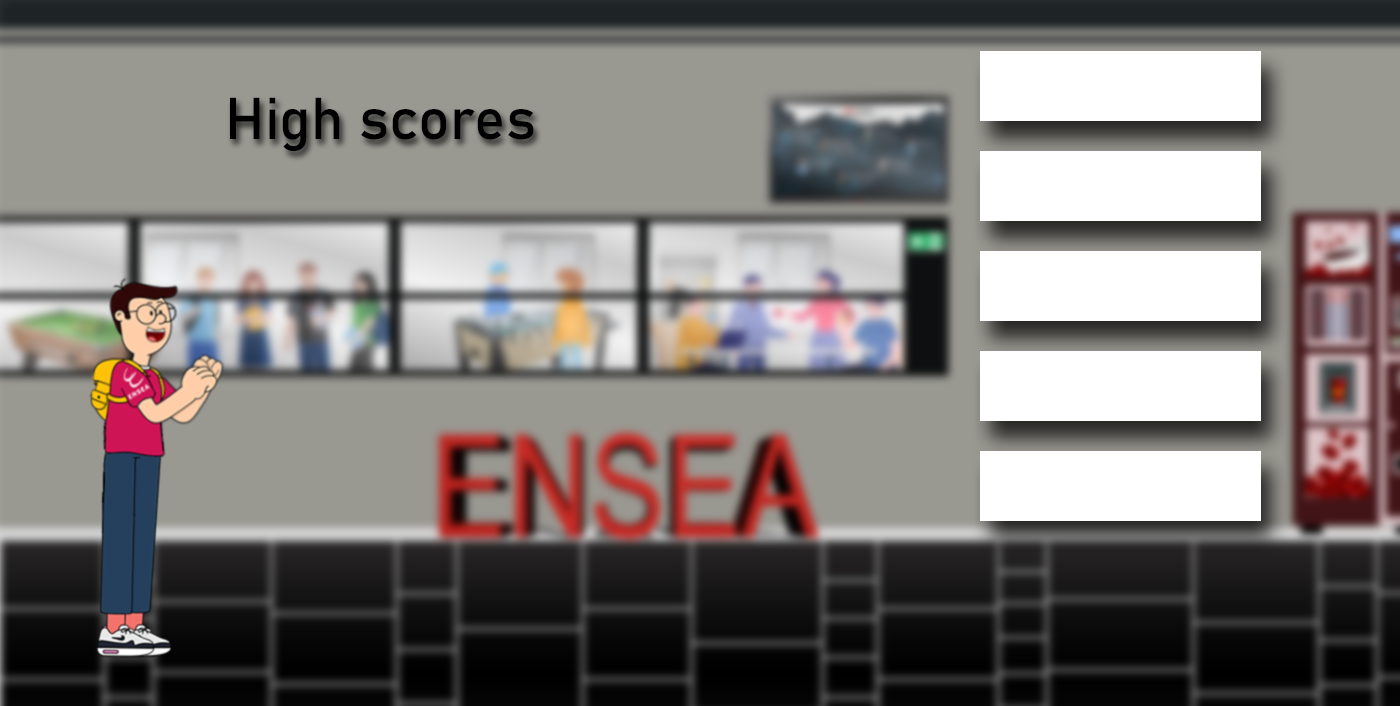
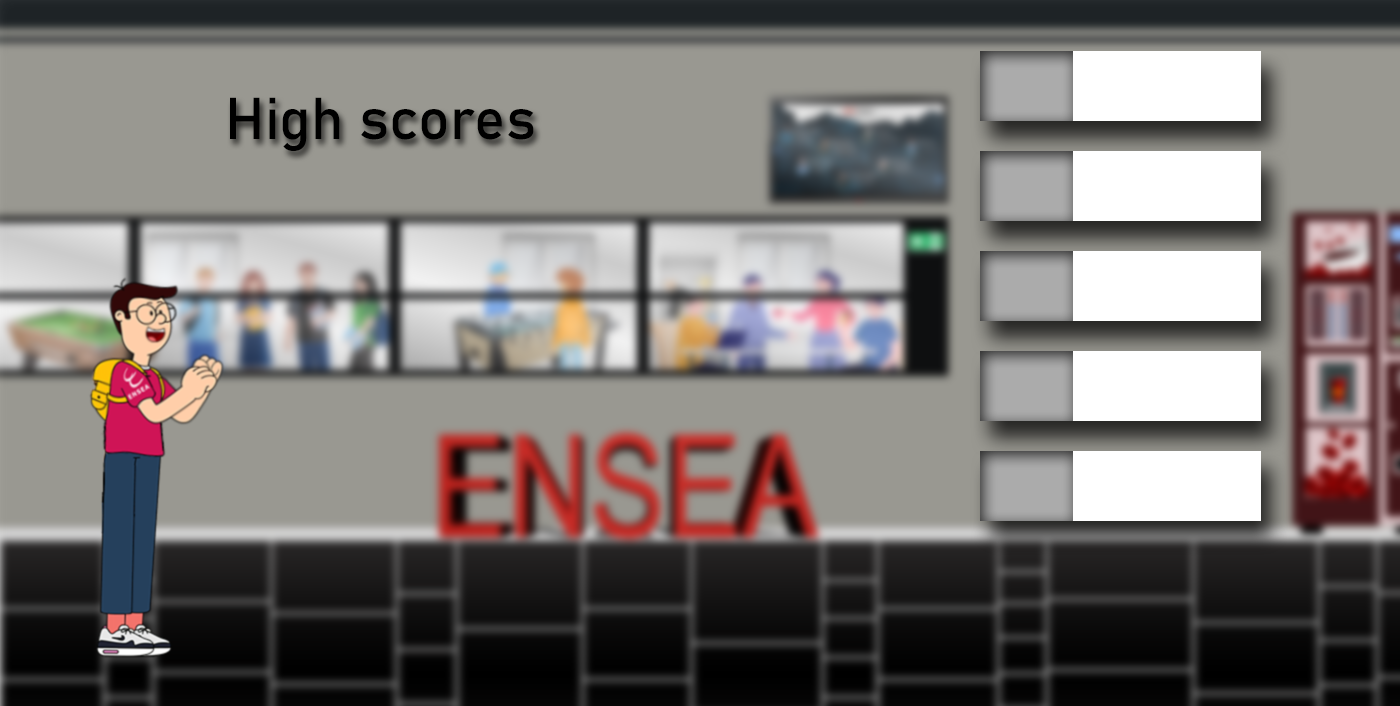
10/11/2021

Changed region(s): [[0.6757, 0.4986, 0.7679, 0.7479], [0.6757, 0.0623, 0.7679, 0.3116], [0.6757, 0.3428, 0.7679, 0.4674]]

diff --git a/src/Hellodemo.java b/src/Hellodemo.java
@@ -21,6 +21,7 @@ public class Hellodemo extends Application{
             Group root4 =new Group();
             WelcomeScene ws= new WelcomeScene(root2);
             HighScoreScene hs=new HighScoreScene(root3);
+            InstructionsScene is= new InstructionsScene(root4);
 
 
 
@@ -28,24 +29,37 @@ public class Hellodemo extends Application{
             Button hsButton=newButton(1000,280,250,80,"High Scores","b");
             Button instButton=newButton(1000,410,250,80,"Instructions","b");
             Button saButton=newButton(600,580,250,80,"Start Again","w");
-            Button homeButton=newButton(1000,580,250,80,"HOME","b");
-            root3.getChildren().add(homeButton);
+            Button homeButton1=newButton(1000,580,250,80,"HOME","b");
+            Button homeButton2=newButton(1000,580,250,80,"HOME","b");
+            Button homeButton3=newButton(1000,580,250,80,"HOME","b");
+            root3.getChildren().add(homeButton1);
+
+            root4.getChildren().add(homeButton2);
             root2.getChildren().add(startButton);
             root2.getChildren().add(hsButton);
             root2.getChildren().add(instButton);
 
-            homeButton.setOnAction(e -> {
+            instButton.setOnAction(e -> {
+                primaryStage.setScene(is);
+            });
+
+            homeButton1.setOnAction(e -> {
+                primaryStage.setScene(ws);
+            });
+            homeButton2.setOnAction(e -> {
+                primaryStage.setScene(ws);
+            });
+            homeButton3.setOnAction(e -> {
                 primaryStage.setScene(ws);
             });
             hsButton.setOnAction(e -> {
-
                 primaryStage.setScene(hs);
                 //hs.update();
             });
 
             startButton.setOnAction(e -> {
                 Group root = new Group();
-                GameScene gs = new GameScene(root,saButton,homeButton,hs);
+                GameScene gs = new GameScene(root,saButton,homeButton3,hs);
                 primaryStage.setScene(gs);
             });
 

diff --git a/src/HighScoreScene.java b/src/HighScoreScene.java
@@ -19,7 +19,7 @@ public class HighScoreScene extends Scene {
     public HighScoreScene(Group g){
         super(g,1400,706);
         bg=new staticThing("C:\\Users\\cheik\\IdeaProjects\\Project_runner_java\\img\\high_score.png",1400,706);
-        g.getChildren().add(bg.getBackView());
+        g.getChildren().add(0, bg.getBackView());
 
         //high_scores.add(readFile("C:\\Users\\cheik\\IdeaProjects\\Project_runner_java\\img\\high_score.txt"));
         int j=0;
@@ -28,11 +28,11 @@ public class HighScoreScene extends Scene {
         {
             j=i+1;
             k=new Text();
-            k.setX(1120);
-            k.setY(86+i*100);
-            k.setText("n°"+j+":   "+high_scores.get(i));
+            k.setX(990);
+            k.setY(95+i*100);
+            k.setText("n°"+j+":        "+high_scores.get(i));
             k.setFill(Color.BLACK);
-            k.setFont(Font.font("verdana", FontWeight.BOLD, FontPosture.REGULAR, 20));
+            k.setFont(Font.font("verdana", FontWeight.BOLD, FontPosture.REGULAR, 30));
             scores.add(i,k);
             g.getChildren().add(k);
         }
@@ -53,7 +53,7 @@ public class HighScoreScene extends Scene {
         for (Text i:scores )
         {
             j++;
-            i.setText("n°"+j+":   "+high_scores.get(j-1));
+            i.setText("n°"+j+":        "+high_scores.get(j-1));
         }
 
     }

diff --git a/src/InstructionsScene.java b/src/InstructionsScene.java
@@ -1,0 +1,11 @@
+import javafx.scene.Group;
+import javafx.scene.Scene;
+
+public class InstructionsScene extends Scene {
+    private staticThing bg;
+    public InstructionsScene(Group g){
+        super(g,1400,706);
+        bg=new staticThing("C:\\Users\\cheik\\IdeaProjects\\Project_runner_java\\img\\instructions.png",1400,706);
+        g.getChildren().add(bg.getBackView());
+    }
+}

diff --git a/src/GameScene.java b/src/GameScene.java
@@ -213,7 +213,7 @@ public class GameScene extends Scene {
             }
             else
             {
-                if ((numberOfLives==0)&(Math.abs(camera.getVx())<0.01)) {
+                if (((numberOfLives==0)&(Math.abs(camera.getVx())<0.01)&(camera.getX()< myHero.getX()))) {
                     timer.stop();
                     highScoreScene.update();
                 }
